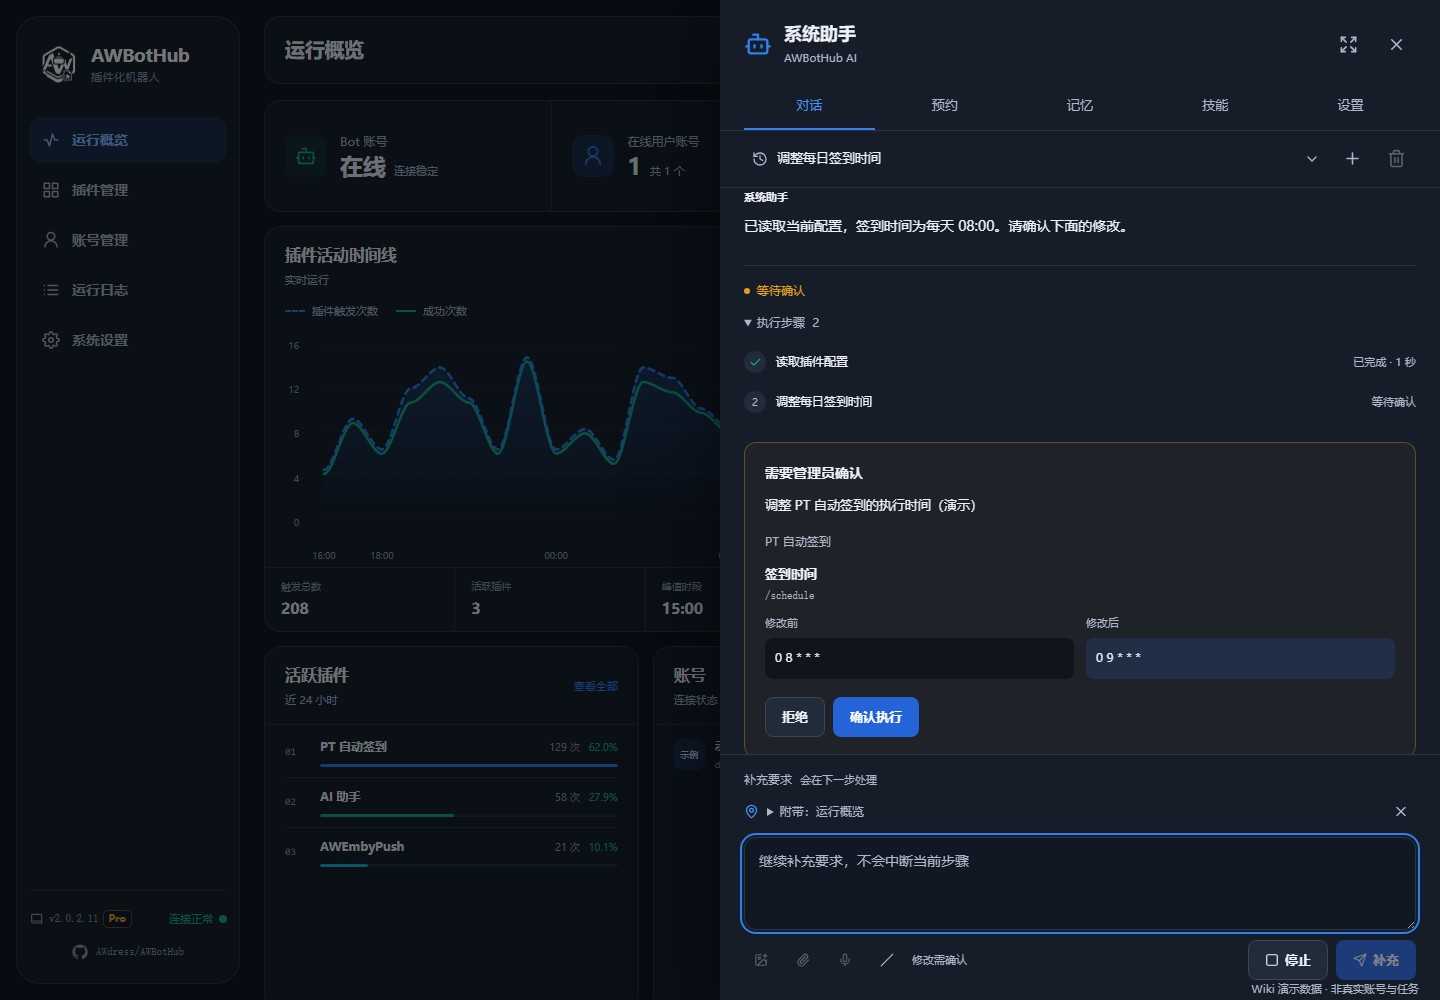
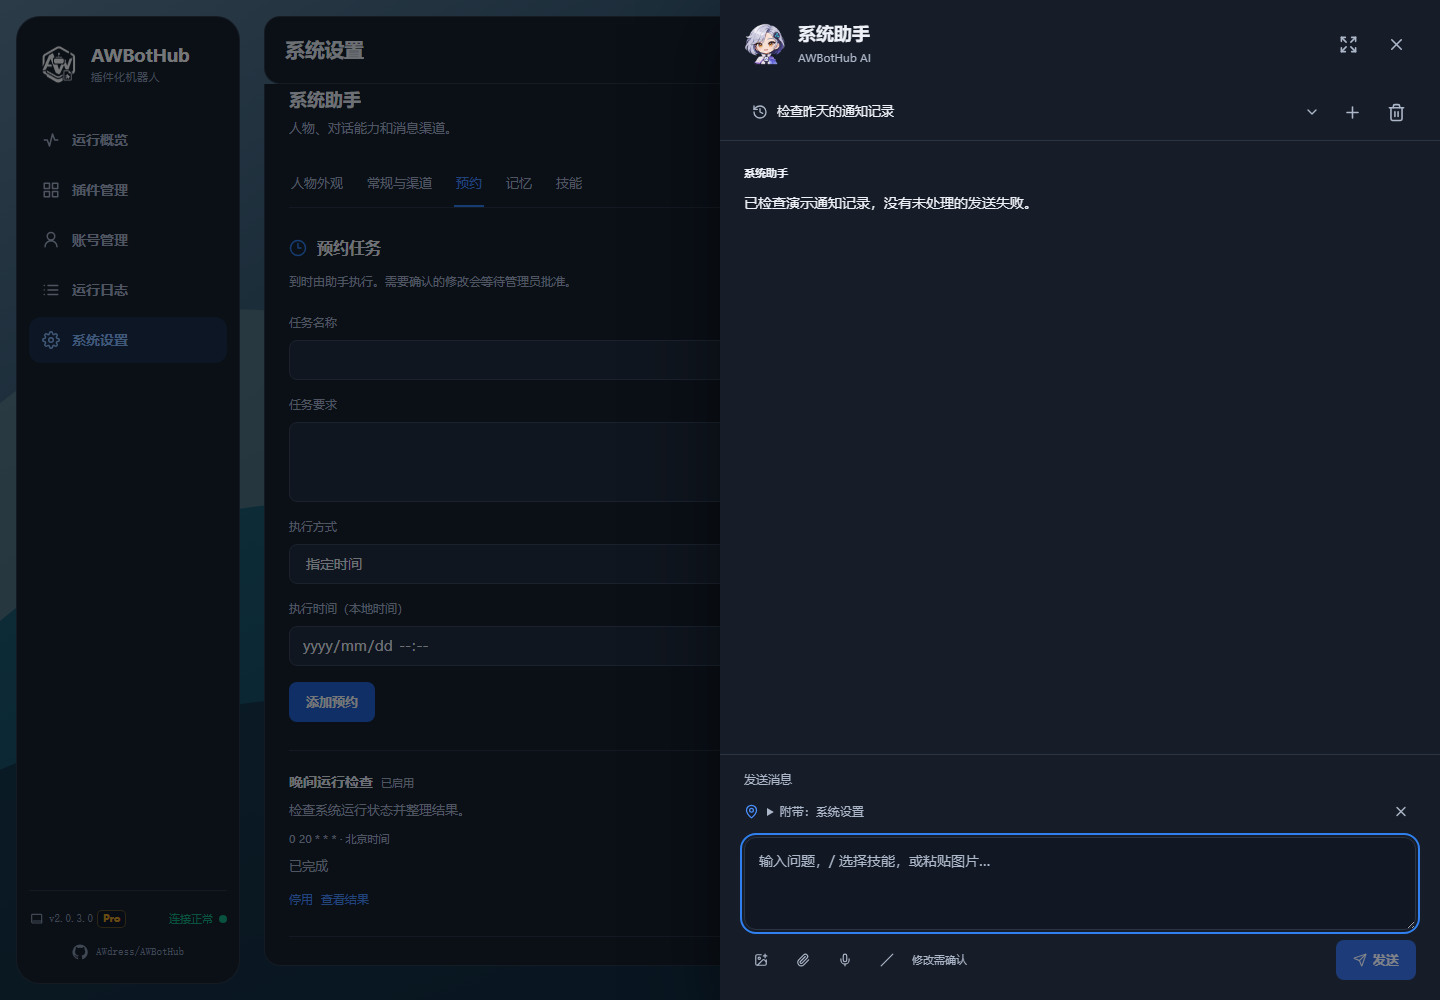
docs: release v2.0.3.0 assistant characters and settings

diff --git a/README.md b/README.md
@@ -23,7 +23,7 @@ https://github.com/user-attachments/assets/84ee9d34-f2c6-4883-8931-bebb4851f3e8
 - **多账号**：在网页上用手机号登录你的 Telegram 账号，可同时管理多个，随时上线/下线。
 - **多 Bot 与路由**：可以接入多个 Telegram Bot，并为不同插件指定发送账号和通知渠道。
 - **AI 服务**：统一配置文字、识图和生图模型，支持自动识别 Chat Completions、Responses 和 Anthropic Messages；插件无需保存 API Key，也能限制每个插件可用的能力。
-- **系统助手**：查询状态和插件日志，按步骤调用已授权的插件动作；支持会话、确认、记忆、技能和预约任务。使用方法见[系统助手](docs/ASSISTANT.md)。
+- **系统助手**：查询状态和插件日志，按步骤调用已授权的插件动作；支持会话、确认、记忆、技能和预约任务。可切换三套人物，用气泡查看消息；助手设置集中在「系统设置 → 系统助手」。使用方法见[系统助手](docs/ASSISTANT.md)。
 - **Cookie 服务**：支持浏览器 CookieCloud 直连和远程 CookieCloud 定时同步，插件按授权域名读取。
 - **插件管理更完整**：支持版本更新、热重载、自检、运行诊断、日志查看和 Vue 配置界面。
 - **开放 API**：可以让自动化脚本或其他服务管理插件、读取状态和发送 Telegram 消息。
@@ -36,7 +36,7 @@ https://github.com/user-attachments/assets/84ee9d34-f2c6-4883-8931-bebb4851f3e8
 
 需要使用内置范围之外的插件，请先准备激活码。授权为长期授权，绑定一个系统安装；未授权时仍可使用上述内置插件。已有系统更新前请先备份，未授权的其他插件会停止运行，但设置和数据会保留，详见[系统授权](docs/guide/系统授权.md)。
 
-Docker 镜像为 `awdress/awbothub`，可用 `awdress/awbothub:v2.0.2.11` 固定版本，或使用 `awdress/awbothub:latest`。两个标签均支持 Linux x86_64（`amd64`）和 ARM64（`arm64`），Docker 会自动选择设备对应的架构，无需更换镜像名。64 位 ARM 服务器、NAS 和树莓派可使用；不支持 32 位 ARM 系统。插件的第三方依赖仍需支持对应架构。
+Docker 镜像为 `awdress/awbothub`。使用 `awdress/awbothub:latest` 跟随更新；需要固定版本时，从[发行版](https://github.com/AWdress/AWBotHub/releases)选择所需版本，把 `latest` 换成对应的镜像标签。Docker 会在 Linux x86_64（`amd64`）和 ARM64（`arm64`）中自动选择，无需更换镜像名。64 位 ARM 服务器、NAS 和树莓派可使用；不支持 32 位 ARM 系统。插件的第三方依赖仍需支持对应架构。
 
 镜像已包含 CloakBrowser 组件 **0.5.12** 和对应架构的浏览器内核，首次使用不需要另外安装组件、下载内核或填写 CloakBrowser Key。AMD64 包含 Stable **156.0.8078.47.1** 与 Preview **156.0.8078.47.3**，ARM64 包含 Stable **155.0.8059.39.2** 与 Preview **156.0.8078.47.1**。组件和内核随系统镜像更新；数据目录中已有的缓存会保留，不会因更新镜像自动清空。使用说明见 [Cookie 与浏览器](docs/guide/Cookies-and-Browser.md)。
 

diff --git a/docs/guide/Troubleshooting.md b/docs/guide/Troubleshooting.md
@@ -293,7 +293,7 @@ docker inspect AWBotNest_V2 --format 'StartedAt={{.State.StartedAt}} RestartCoun
 | 现象 | 检查什么 |
 | --- | --- |
 | 只会回复文字，不调用工具 | 默认文字模型和服务接口必须支持工具调用；同名模型在不同服务商处不保证能力相同，到 AI 服务最近调用查看协议与错误 |
-| 提示只允许查询 | 在助手设置打开“允许执行修改操作”；然后在本次确认卡批准，不是打开开关后就永久批准全部操作 |
+| 提示只允许查询 | 在“系统设置 → 系统助手 → 常规与渠道”打开“允许执行修改操作”；然后在本次确认卡批准，不是打开开关后就永久批准全部操作 |
 | 某插件按钮没有列出 | 该按钮必须已注册为系统动作；先检查插件已启用、实际动作目录和参数，自定义网页按钮或私有接口不自动等于系统动作 |
 | 图片无法识别 | 在 AI 服务配置默认视觉模型；检查图片格式和大小，任务执行中先等当前任务结束再附图 |
 | 录音或语音失败 | 需要配置兼容的默认语音转写模型；浏览器录音还受麦克风权限和安全访问环境限制，不会自动借用文字模型转写 |
@@ -302,6 +302,9 @@ docker inspect AWBotNest_V2 --format 'StartedAt={{.State.StartedAt}} RestartCoun
 | Docker 核心源码无法查看或保存 | 助手不能直接改写系统二进制；可检查日志、公开配置和已安装插件源码，系统问题可整理后提交 Issue |
 | 不能提交插件 Issue | 检查 GitHub Token 权限和助手的 Issue 开关；插件来源必须能核实，手工上传或来源不明时只生成报告，不猜仓库 |
 | 找不到很久以前的对话或原图 | 助手历史有保留范围；只保存脱敏后的识别资料，原始图片、语音不写入会话数据库 |
+| 找不到预约、记忆、技能或助手设置 | 到“系统设置 → 系统助手”选择对应分类；对话窗口只用于聊天和会话操作 |
+| 悬浮人物没有出现 | 检查“系统设置 → 系统助手 → 人物外观”的“显示悬浮人物”；人物可能已靠边探头，触屏先点探头唤出 |
+| 换浏览器后人物或位置不同 | 人物偏好按当前浏览器和登录用户保存，不跨设备同步；电脑和手机分别记住位置 |
 
 助手停止、提交超时或网页关闭后，不要立刻重复要求同一修改。先核对执行步骤与实际配置；已经完成的操作不会因停止自动撤销，结果不明的外部提交也不会自动重发。
 

diff --git a/docs/ASSISTANT_SANDBOX.md b/docs/ASSISTANT_SANDBOX.md
@@ -28,7 +28,7 @@ Docker 不是绝对安全边界。broker 的 Docker socket 等同高权限管理
 
 ## 连接与维护
 
-在助手「设置 → 独立沙箱」填写现有执行端的受保护地址及专用令牌，保存后点击「检查连接」。保存只记录配置，不表示已连接成功。远程连接使用 HTTPS，不要直接把执行端端口暴露到公网。还需开启助手的「允许执行修改操作」，每次操作仍须确认。
+在「系统设置 → 系统助手 → 常规与渠道 → 独立沙箱」填写现有执行端的受保护地址及专用令牌，保存后点击「检查连接」。保存只记录配置，不表示已连接成功。远程连接使用 HTTPS，不要直接把执行端端口暴露到公网。还需开启助手的「允许执行修改操作」，每次操作仍须确认。
 
 维护或停用前先停止正在执行的助手任务，再关闭独立沙箱开关。使用原部署文件停止 broker。升级须保留并核对配套镜像、部署文件和令牌；临时工作目录不保证跨重建保留，助手会话及配置仍保存在系统的数据目录。
 

diff --git a/docs/guide/Accounts-and-Notifications.md b/docs/guide/Accounts-and-Notifications.md
@@ -207,7 +207,7 @@ https://你的系统域名/api/wecom/callback/渠道ID
 
 ### 8.4 在 Telegram 或企业微信使用系统助手
 
-系统助手与插件指令是两套入口。助手需要先在网页中开启、完成管理员配对，再在对应私聊或应用中进入助手模式。进入后可发文字和图片，确认和选择使用按钮；退出助手模式后，消息交给插件处理。
+系统助手与插件指令是两套入口。先在「系统设置 → 系统助手 → 常规与渠道」启用助手，并在其中的「消息渠道」完成管理员配对，再在对应私聊或应用中进入助手模式。进入后可发文字和图片，确认和选择使用按钮；退出助手模式后，消息交给插件处理。
 
 配对步骤、图片与文件处理、权限和按钮操作见 [系统助手](System-Assistant.md)。不要把通知渠道配置好了，就当作所有聊天成员都已获得助手权限。
 

diff --git a/CHANGELOG.md b/CHANGELOG.md
@@ -4,6 +4,14 @@
 
 这里记录每个版本给用户带来的新功能、改进和问题修复。
 
+## v2.0.3.0
+
+这一版为系统助手增加可切换的人物与消息气泡，并将助手设置集中到系统设置。
+
+- 新增星澜、暖橙、小枢三套助手形象，支持切换、拖动位置、侧身走路和靠边探头；鼠标移到探头时自动出来。
+- 系统通知和操作提示可由人物气泡显示，查看通知仍打开通知中心；可单独关闭人物或动态效果。
+- 系统设置新增“系统助手”，集中管理人物、模型、通知接入、预约、记忆和技能；对话窗口专注聊天与会话操作。
+
 ## v2.0.2.12
 
 这一版修复旧插件的来源识别、卸载和图标显示问题。
